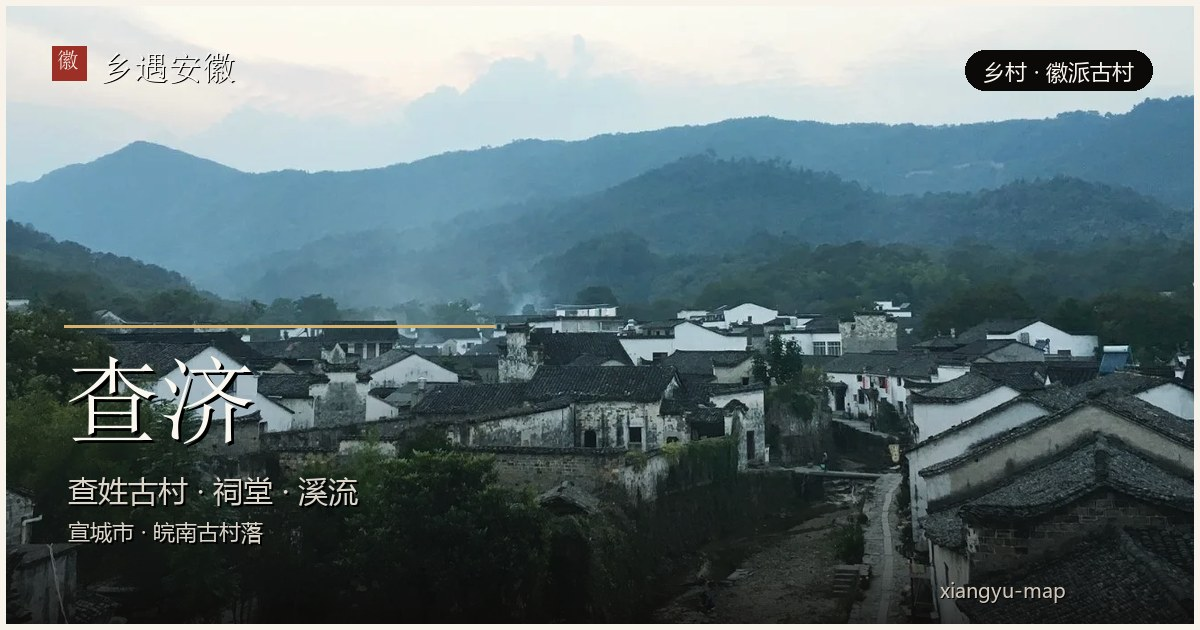
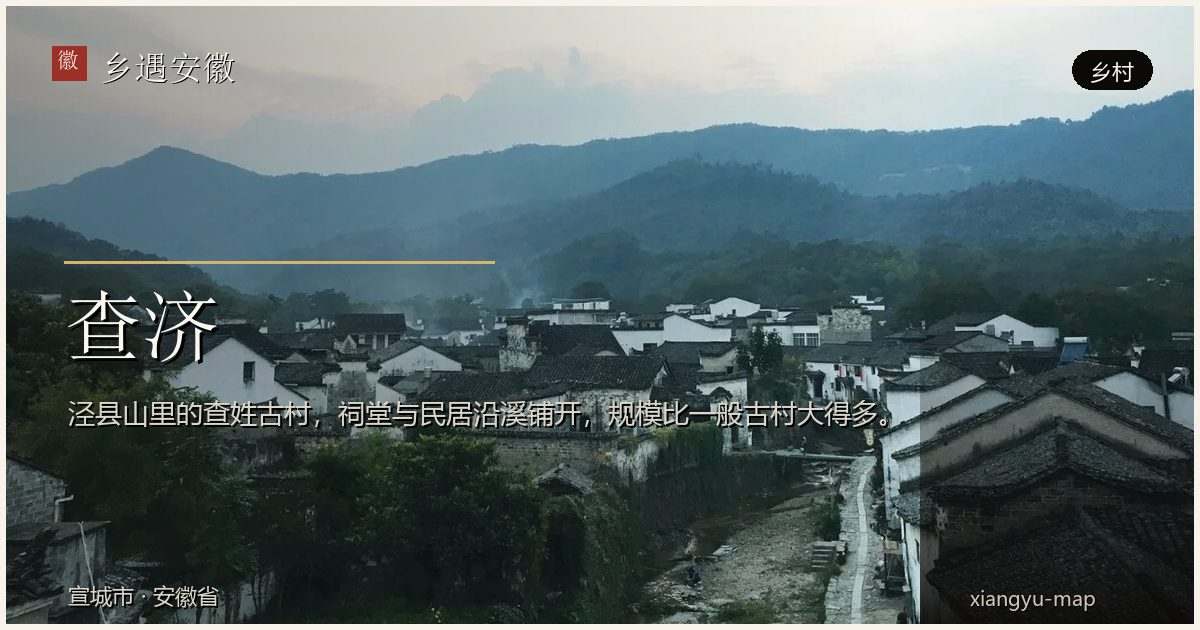
feat(content): 查济换新封面并重生成分享图，人工精选降为 11 张 (#166)
合并说明：作者为 A（Hldwsd 侧）；按负责人要求把查济封面换成新图并重生成分享图（人工精选 12→11、模板 59），prerender 的 og:image 已验证。本地 144 用例、E2E 10 passed、闸门与构建通过。共用账号无法互相 approve，按惯例留痕后合并。

diff --git a/scripts/make-og-images-all.py b/scripts/make-og-images-all.py
@@ -1,6 +1,6 @@
 """Generate 1200x630 share cards for the remaining sites.
 
-The 12 curated cards in scripts/make-og-images.py keep their hand-written copy;
+The curated cards in scripts/make-og-images.py keep their hand-written copy;
 this script only fills sites that have no public/og/sites/<id>.jpg yet. Run:
 
     python scripts/make-og-images-all.py
@@ -28,7 +28,6 @@ CURATED = {
     'tianzhushan',
     'tiantangzhai',
     'longchuan',
-    'chaji-village',
     'caishiji',
     'sanhe-ancient-town',
     'shouxian-ancient-city',

diff --git a/README.md b/README.md
@@ -98,7 +98,7 @@ pnpm dev          # http://localhost:5173
 - **地标数据**：`src/data/sites.ts`，字段契约在 `src/types/site.ts`（改字段需双方在 PR 确认）。新增一个项目 = 加一条数据 + 放图，不动组件代码；`province` 固定为安徽省，`city` 必须是 16 个地级市之一（联合类型，写错编译期就报错）。
 - **数据校验**：`src/utils/site-validation.ts` 在应用启动时校验全部数据（id 唯一与格式、分类枚举、城市属于 16 个地级市、坐标落在安徽省内、摘要字数、来源必填），不合格直接抛 `SiteDataError` 并列出问题条目，不静默降级。
 - **高德链接**：精确 POI 短链按 site id 维护在 `src/data/amap-links.ts`，当前 70/70 已置入；没有短链的项目回退到「名称 + 城市」搜索，不按经纬度拼 marker（坐标是千米级精度，容易落到隔壁点位）。
-- **分享图**：12 个头部项目用 `scripts/make-og-images.py` 的人工文案，其余 58 个用 `scripts/make-og-images-all.py` 从封面自动生成；70 个项目在数据里用 `shareImage` 显式指向，全部 70 个都有专属图。预渲染写 `og:image` / `og:image:alt`，详情页“分享”弹层复用同一张图，可复制链接/保存图片/调用系统分享。
+- **分享图**：11 个头部项目用 `scripts/make-og-images.py` 的人工文案，其余 59 个用 `scripts/make-og-images-all.py` 从封面自动生成；70 个项目在数据里用 `shareImage` 显式指向，全部 70 个都有专属图。预渲染写 `og:image` / `og:image:alt`，详情页“分享”弹层复用同一张图，可复制链接/保存图片/调用系统分享。
 - **画廊**：头部 12 个项目各补了 2 张 `gallery-*.webp`（来源为高德 POI 页的公开评论图片，授权口径同封面）；其余项目 `gallery` 仍为空。
 - **底图与专题图层**（都在 `public/maps/`，来源、字段与 sha256 见 [public/maps/README.md](public/maps/README.md)）：
 
@@ -145,7 +145,7 @@ pnpm dev          # http://localhost:5173
 | 湖泊水面 / 河道线      | © OpenStreetMap contributors（Overpass API 抓取） | ODbL，页面已署名（页脚、首页版记、「菜单 → 关于」）     |
 | 省与市轮廓             | DataV.GeoAtlas                                    | 见其仓库说明，公开上线前替换为经审核数据                |
 | 封面图                 | 百度百科词条主图（项目所有者逐条审核并替换部分）  | 版权待确认，公开商用前须替换或取得授权，见 ADR 0011     |
-| 默认分享图             | 项目内生成（省界轮廓来自 DataV.GeoAtlas）         | 随项目 MIT；70/70 项目有分享图（12 人工 + 58 模板生成） |
+| 默认分享图             | 项目内生成（省界轮廓来自 DataV.GeoAtlas）         | 随项目 MIT；70/70 项目有分享图（11 人工 + 59 模板生成） |
 | 背景书法《少学琴书册》 | 邓石如（清，1743–1805），项目所有者提供的扫描件   | 作品为公有领域；扫描件授权待确认                        |
 | 分类图标               | 项目内自绘（`src/components/icons/`，S1 线稿）    | 随项目 MIT                                              |
 

diff --git a/docs/HANDOFF.md b/docs/HANDOFF.md
@@ -9,7 +9,7 @@
 
 **M0、M1 已完成；M2 的内容、详情页与分享链路基本完成；M3 已起步（覆盖率、E2E、reduced-motion 已接，Lighthouse 与 Release 未做）；M4 未开始。**
 
-main 当前有 **70 条数据、70 张封面、70/70 高德短链、20 条 practical、12 个头部项目的分享图与画廊**；
+main 当前有 **70 条数据、70 张封面、70/70 高德短链、20 条 practical、70/70 分享图、12 个头部项目的画廊**；
 地标是软碰撞小球；最近在收手机端拖动/双指缩放/书法背景和覆盖率闸门。
 
 ## 一、最近完成了什么
@@ -31,7 +31,7 @@ main 当前有 **70 条数据、70 张封面、70/70 高德短链、20 条 pract
 
 - `pnpm prerender` 生成 70 个 `dist/site/<id>/index.html`，注入 title、description、canonical、OG/Twitter、`TouristAttraction` JSON-LD；
 - 首页也注入站点级 meta；SPA 内跳转同步浏览器标题；
-- 69 个项目的 1200×630 分享图已接入（12 张人工精选 + 57 张模板生成），徽菜博物馆回退 `public/og-cover.jpg`；
+- 70 个项目的 1200×630 分享图已接入（11 张人工精选 + 59 张模板生成），数据里全部显式 shareImage；
 - CI / deploy / preview 都接入 prerender；ADR 0012 记录方案。
 
 > 合并历史提醒：#131 当时以 `feat/detail-decision` 为 base，只合进功能分支；#133 才把它带进 main。
@@ -80,7 +80,7 @@ main 当前有 **70 条数据、70 张封面、70/70 高德短链、20 条 pract
 | 封面      | 70/70 WebP，单张 ≤300KB                                        |
 | 高德短链  | 70/70，`src/data/amap-links.ts`                                |
 | 预渲染    | 70 个详情页 + 首页，`pnpm prerender`                           |
-| 分享图    | 70/70 独立图（12 人工 + 58 模板）                              |
+| 分享图    | 70/70 独立图（11 人工 + 59 模板）                              |
 | 画廊      | 12 个头部项目 ×2 张；其余 58 条仍为空                          |
 | practical | 20 条有 `duration` / `audience`；`hours` / `ticket` 未填       |
 | 单测      | **144 个用例 / 13 个文件**，全绿                               |

diff --git a/docs/PROJECT_PLAN.md b/docs/PROJECT_PLAN.md
@@ -347,7 +347,7 @@ export interface Site {
 - 详情页决策信息：12 个头部项目补 `practical.duration` / `audience`；`hours` / `ticket` 待有可追溯来源后补；
 - 画廊：12 个头部项目各 2 张 `gallery-*.webp`（高德 POI 公开评论图片）；其余 58 条仍为空；
 - 内容补强：新增 8 条非遗/场馆（宣纸、徽墨、歙砚、汪满田鱼灯、池州傩、万安罗盘、冯嘴子花鼓灯、中国徽菜博物馆），数据 62→70；
-- 分享与收录：构建后预渲染 70 个详情页，注入各自的 title / description / OG / JSON-LD（[ADR 0012](adr/0012-prerender-detail-pages.md)）；70/70 个项目已有独立分享图（12 张人工精选 + 58 张模板生成）；详情页可打开分享弹层（复制链接/保存图片/系统分享）；
+- 分享与收录：构建后预渲染 70 个详情页，注入各自的 title / description / OG / JSON-LD（[ADR 0012](adr/0012-prerender-detail-pages.md)）；70/70 个项目已有独立分享图（11 张人工精选 + 59 张模板生成）；详情页可打开分享弹层（复制链接/保存图片/系统分享）；
 - 键盘入口：移除地图内重复的隐藏地标列表，统一走顶部「项目列表」抽屉（[Issue #107](https://github.com/Hldwsd/xiangyu-map/issues/107)）；
 - 剩余：加载骨架与错误态的细粒度打磨、图片懒加载在真实图片上验证、
   列表 ↔ 地图的 hover（目前只做选中联动）。

diff --git a/docs/adr/0014-share-card.md b/docs/adr/0014-share-card.md
@@ -54,11 +54,11 @@
 
 v0.2 前把覆盖扩到 **69/70**，随后（2026-11-23）补到 **70/70**（徽菜博物馆换新封面后也生成卡片，不再保留默认图样本）：
 
-- 12 个头部项目保留 `make-og-images.py` 的人工文案；
+- 11 个头部项目保留 `make-og-images.py` 的人工文案；
 - 其余 57 个由 `make-og-images-all.py` 用「封面临摹 + 左/底渐变 + 名称/摘要/城市」模板生成；
 - 徽菜博物馆故意保留 `og-cover.jpg`，作为 `shareImage` 缺省回退的线上样本（E2E 也依赖它）；
 - 新增图片约 **8.4 MB**，`public/og/sites` 总计约 10.5 MB；`prerender` 继续显式校验文件存在；
-- 全量生成前已看 69 张缩略图总览；自动卡片不如 12 张人工精选，但标题/摘要可读，满足分享卡最低标准。
+- 全量生成前已看 69 张缩略图总览；自动卡片不如 11 张人工精选，但标题/摘要可读，满足分享卡最低标准。
 
 ## 验证
 

diff --git a/CHANGELOG.md b/CHANGELOG.md
@@ -6,7 +6,7 @@
 
 ### 新增
 
-- 分享图覆盖扩到 **70/70**：12 张人工精选 + 58 张由 `scripts/make-og-images-all.py` 从封面自动生成；中国徽菜博物馆换新封面后也补了生成卡片。
+- 分享图覆盖扩到 **70/70**：11 张人工精选 + 59 张由 `scripts/make-og-images-all.py` 从封面自动生成；中国徽菜博物馆、查济换新封面后改为模板生成卡片。
 
 ### 修复
 
